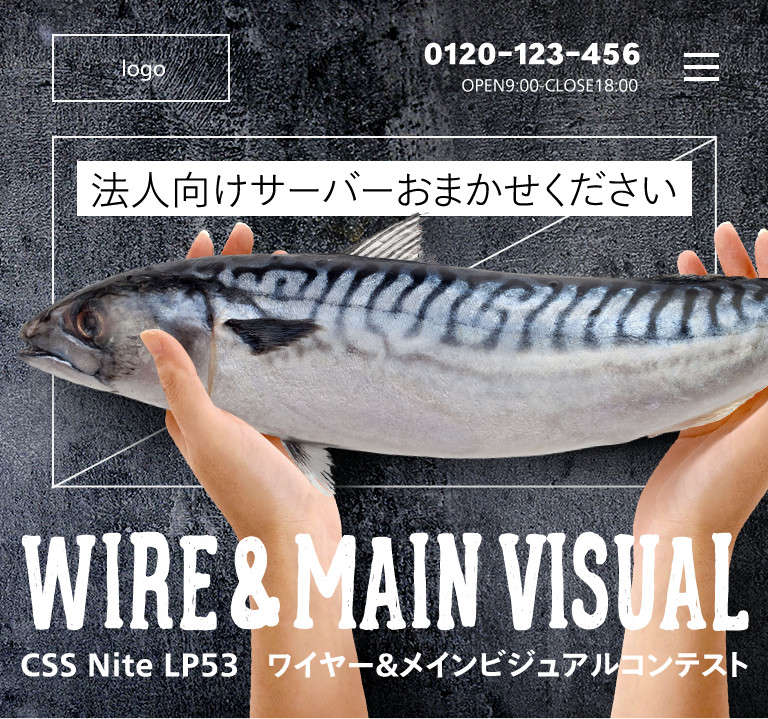
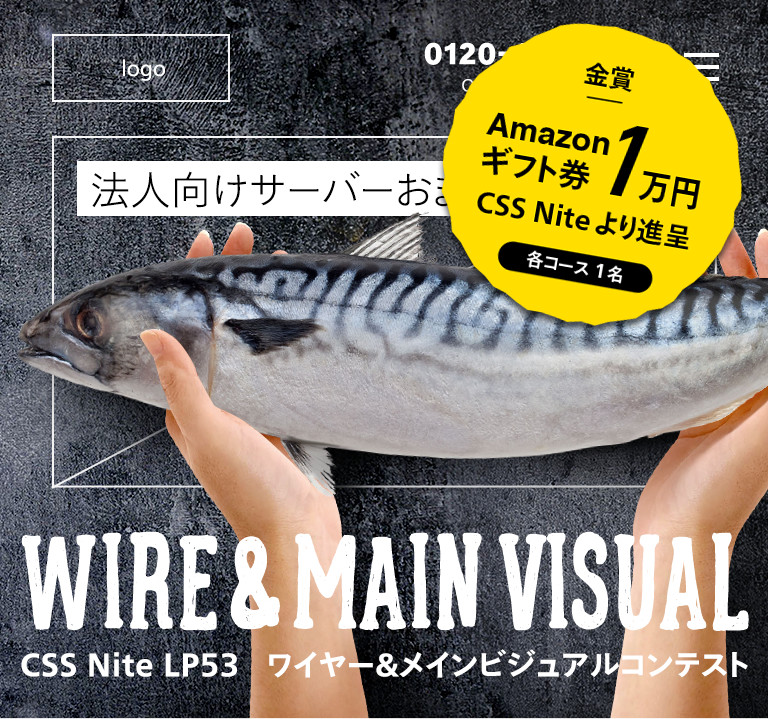
mod

Changed region(s): [[0.5312, 0.0306, 0.9688, 0.459], [0.2188, 0.2448, 0.3125, 0.2754], [0.125, 0.2448, 0.1562, 0.2754]]

diff --git a/index.html b/index.html
@@ -190,8 +190,10 @@ if(typeof(window.NINJA_CO_JP_ONETAG_BUTTON_4e06aa51905462fbe0085b8ccb4d099c)=='u
 			</div>
 			<div class="flexbox">
 				<h2>表彰および賞金</h2>
-				<p class="right"><span class="big">金賞　1名　CPI 限定ノベルティセット + 該当ページの制作依頼 + Amazonギフト券1万円</span><br />
-入賞　5名　CPI 限定ノベルティセット<br />
+				<p class="right"><span class="big">金賞　1名<br>
+					CPI様より…限定ノベルティセット + 該当ページの制作依頼<br>
+					CSS Niteより…Amazonギフト券1万円</span><br />
+入賞　5名　限定ノベルティセット<br />
 					※各賞とも該当なしの場合があります。
 				</p>
 			</div>
@@ -250,9 +252,8 @@ if(typeof(window.NINJA_CO_JP_ONETAG_BUTTON_4e06aa51905462fbe0085b8ccb4d099c)=='u
 			</div>
 			<div class="flexbox">
 				<h2>表彰および賞金</h2>
-				<p class="right">CSS Nite LP53当日のセッションで、矢野りんさん、角田綾佳さんの二人による合評が行われます。見るだけでも楽しめますが、同じ課題に取り組んだ方が、より気づきが多いものになります。<br /><br />
-					<span class="big">お二人のピックアップした作品の応募者には、書籍をプレゼントします。</span>ぜひご応募ください！
-				</p>
+				<p class="right"><span class="big">金賞　1名　（CSS Niteより）Amazonギフト券1万円</span><br />入賞　10名　書籍プレゼント</span><br />
+				CSS Nite LP53当日のセッションで、矢野りんさん、角田綾佳さんの二人による合評が行われます。見るだけでも楽しめますが、同じ課題に取り組んだ方が、より気づきが多いものになります。</p>
 			</div>
 			<div class="flexbox">
 				<h2>応募締め切り</h2>
